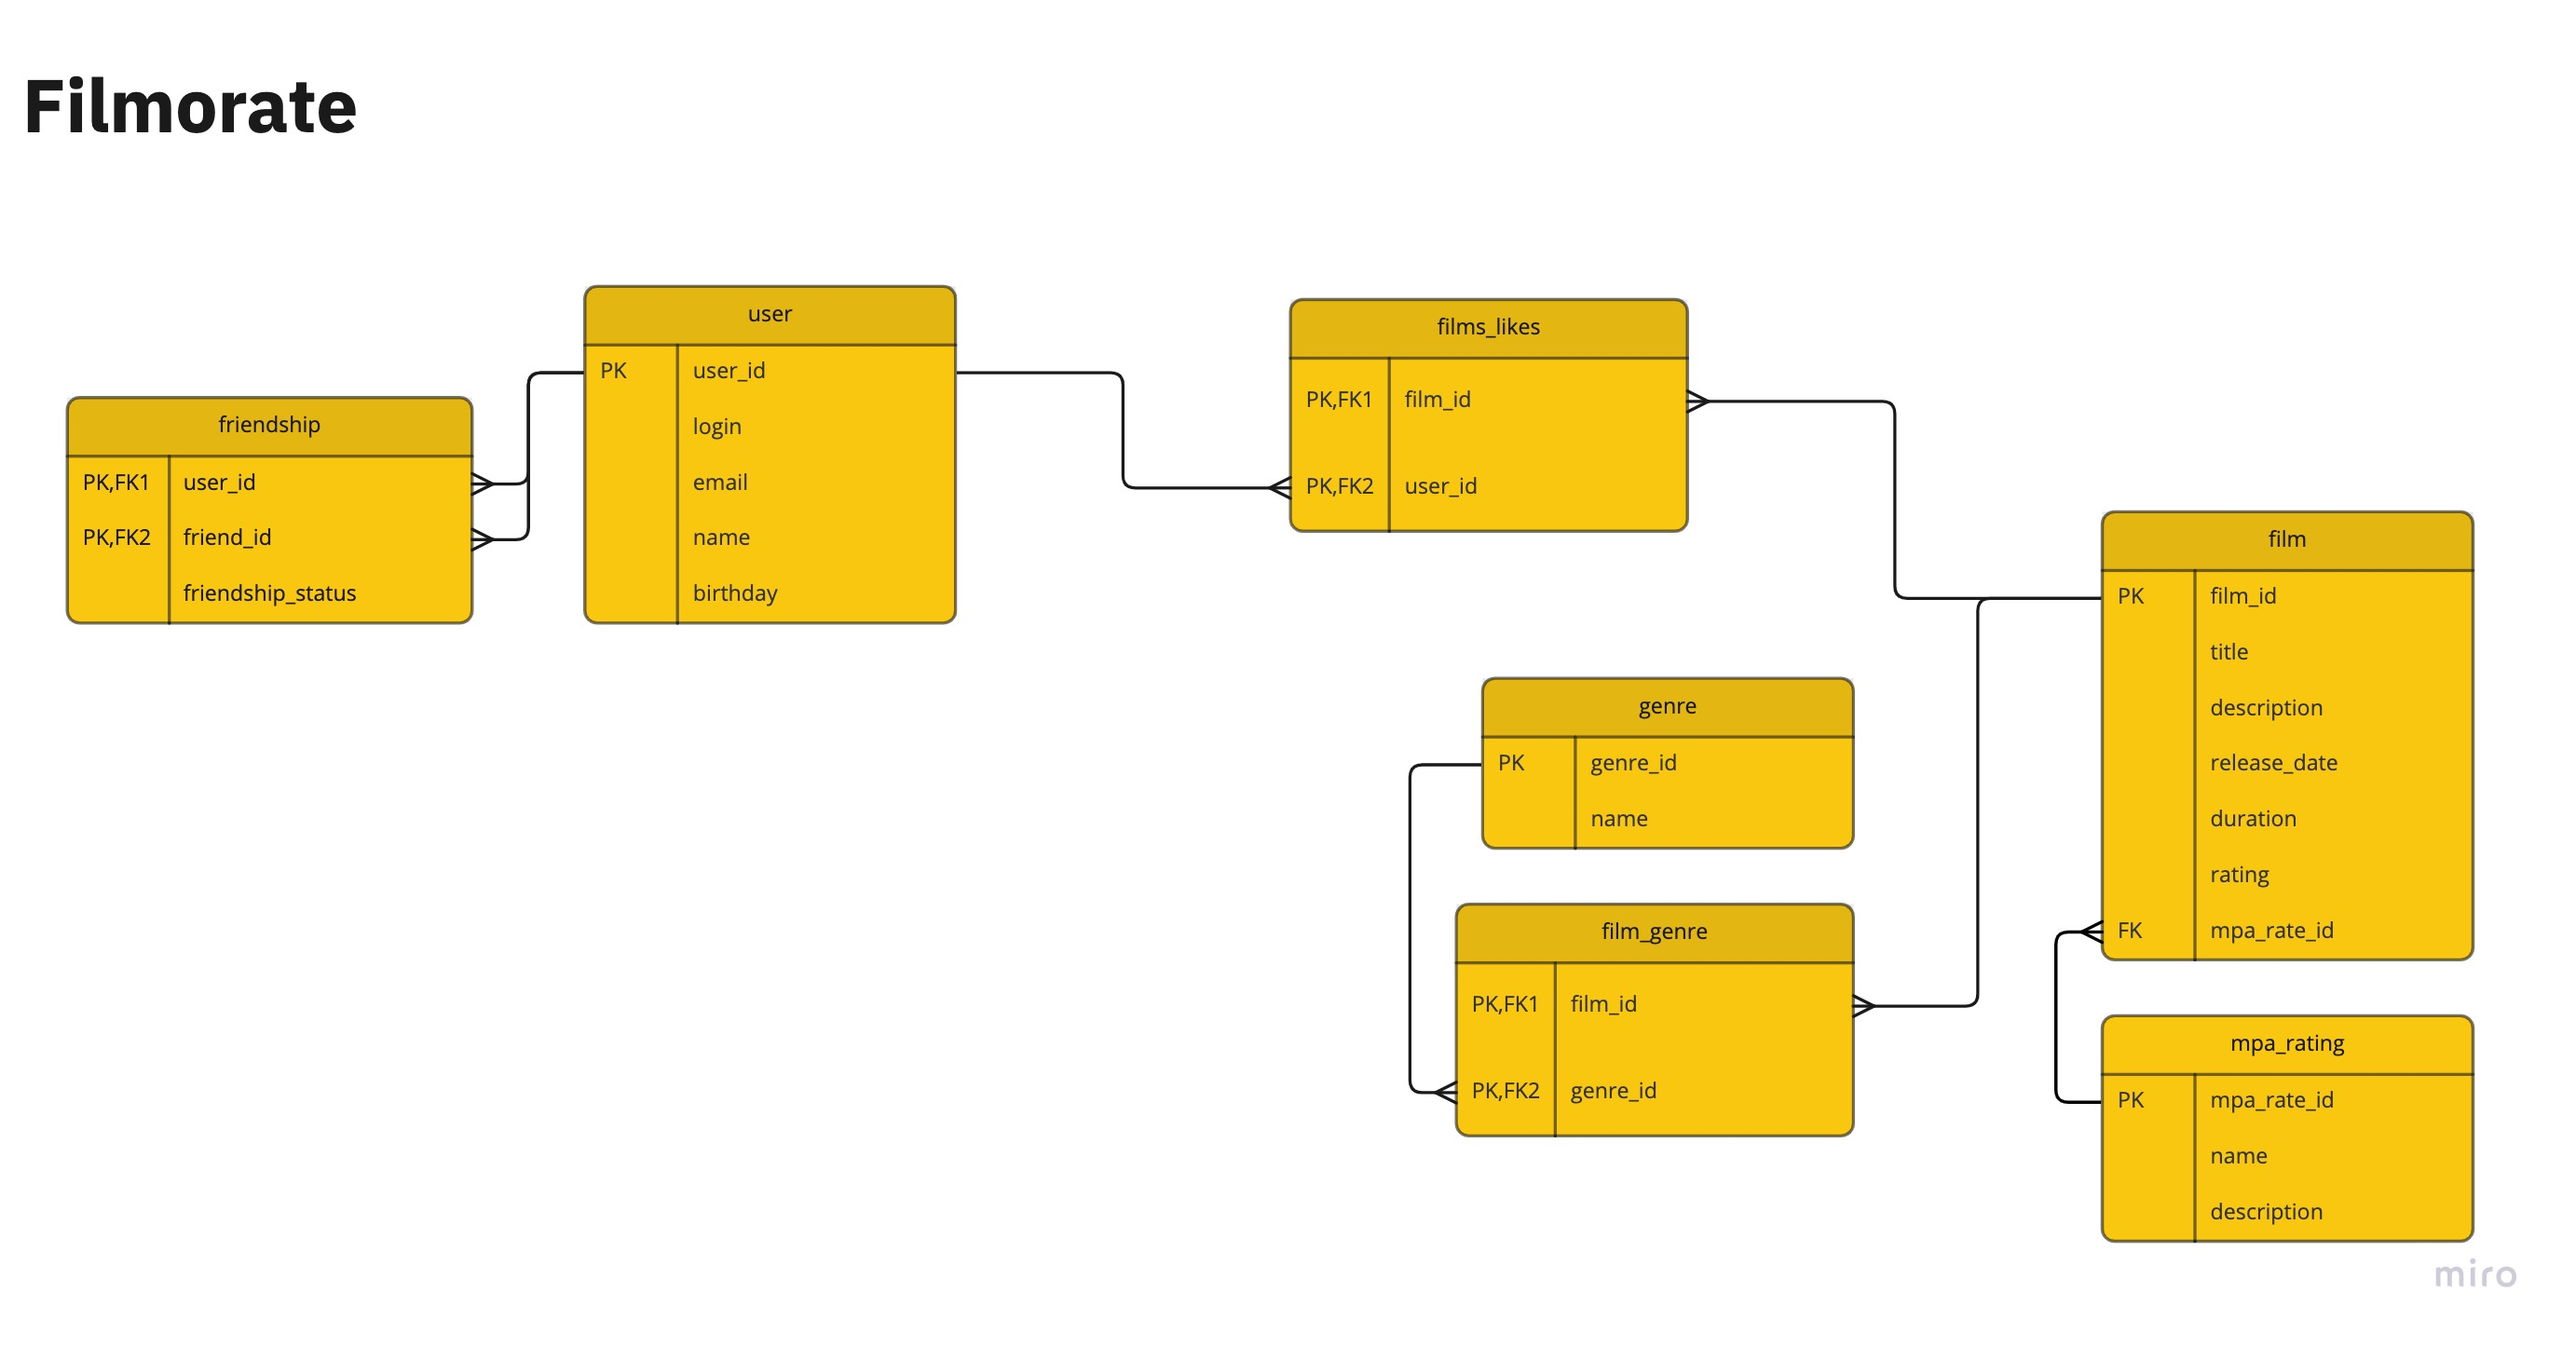
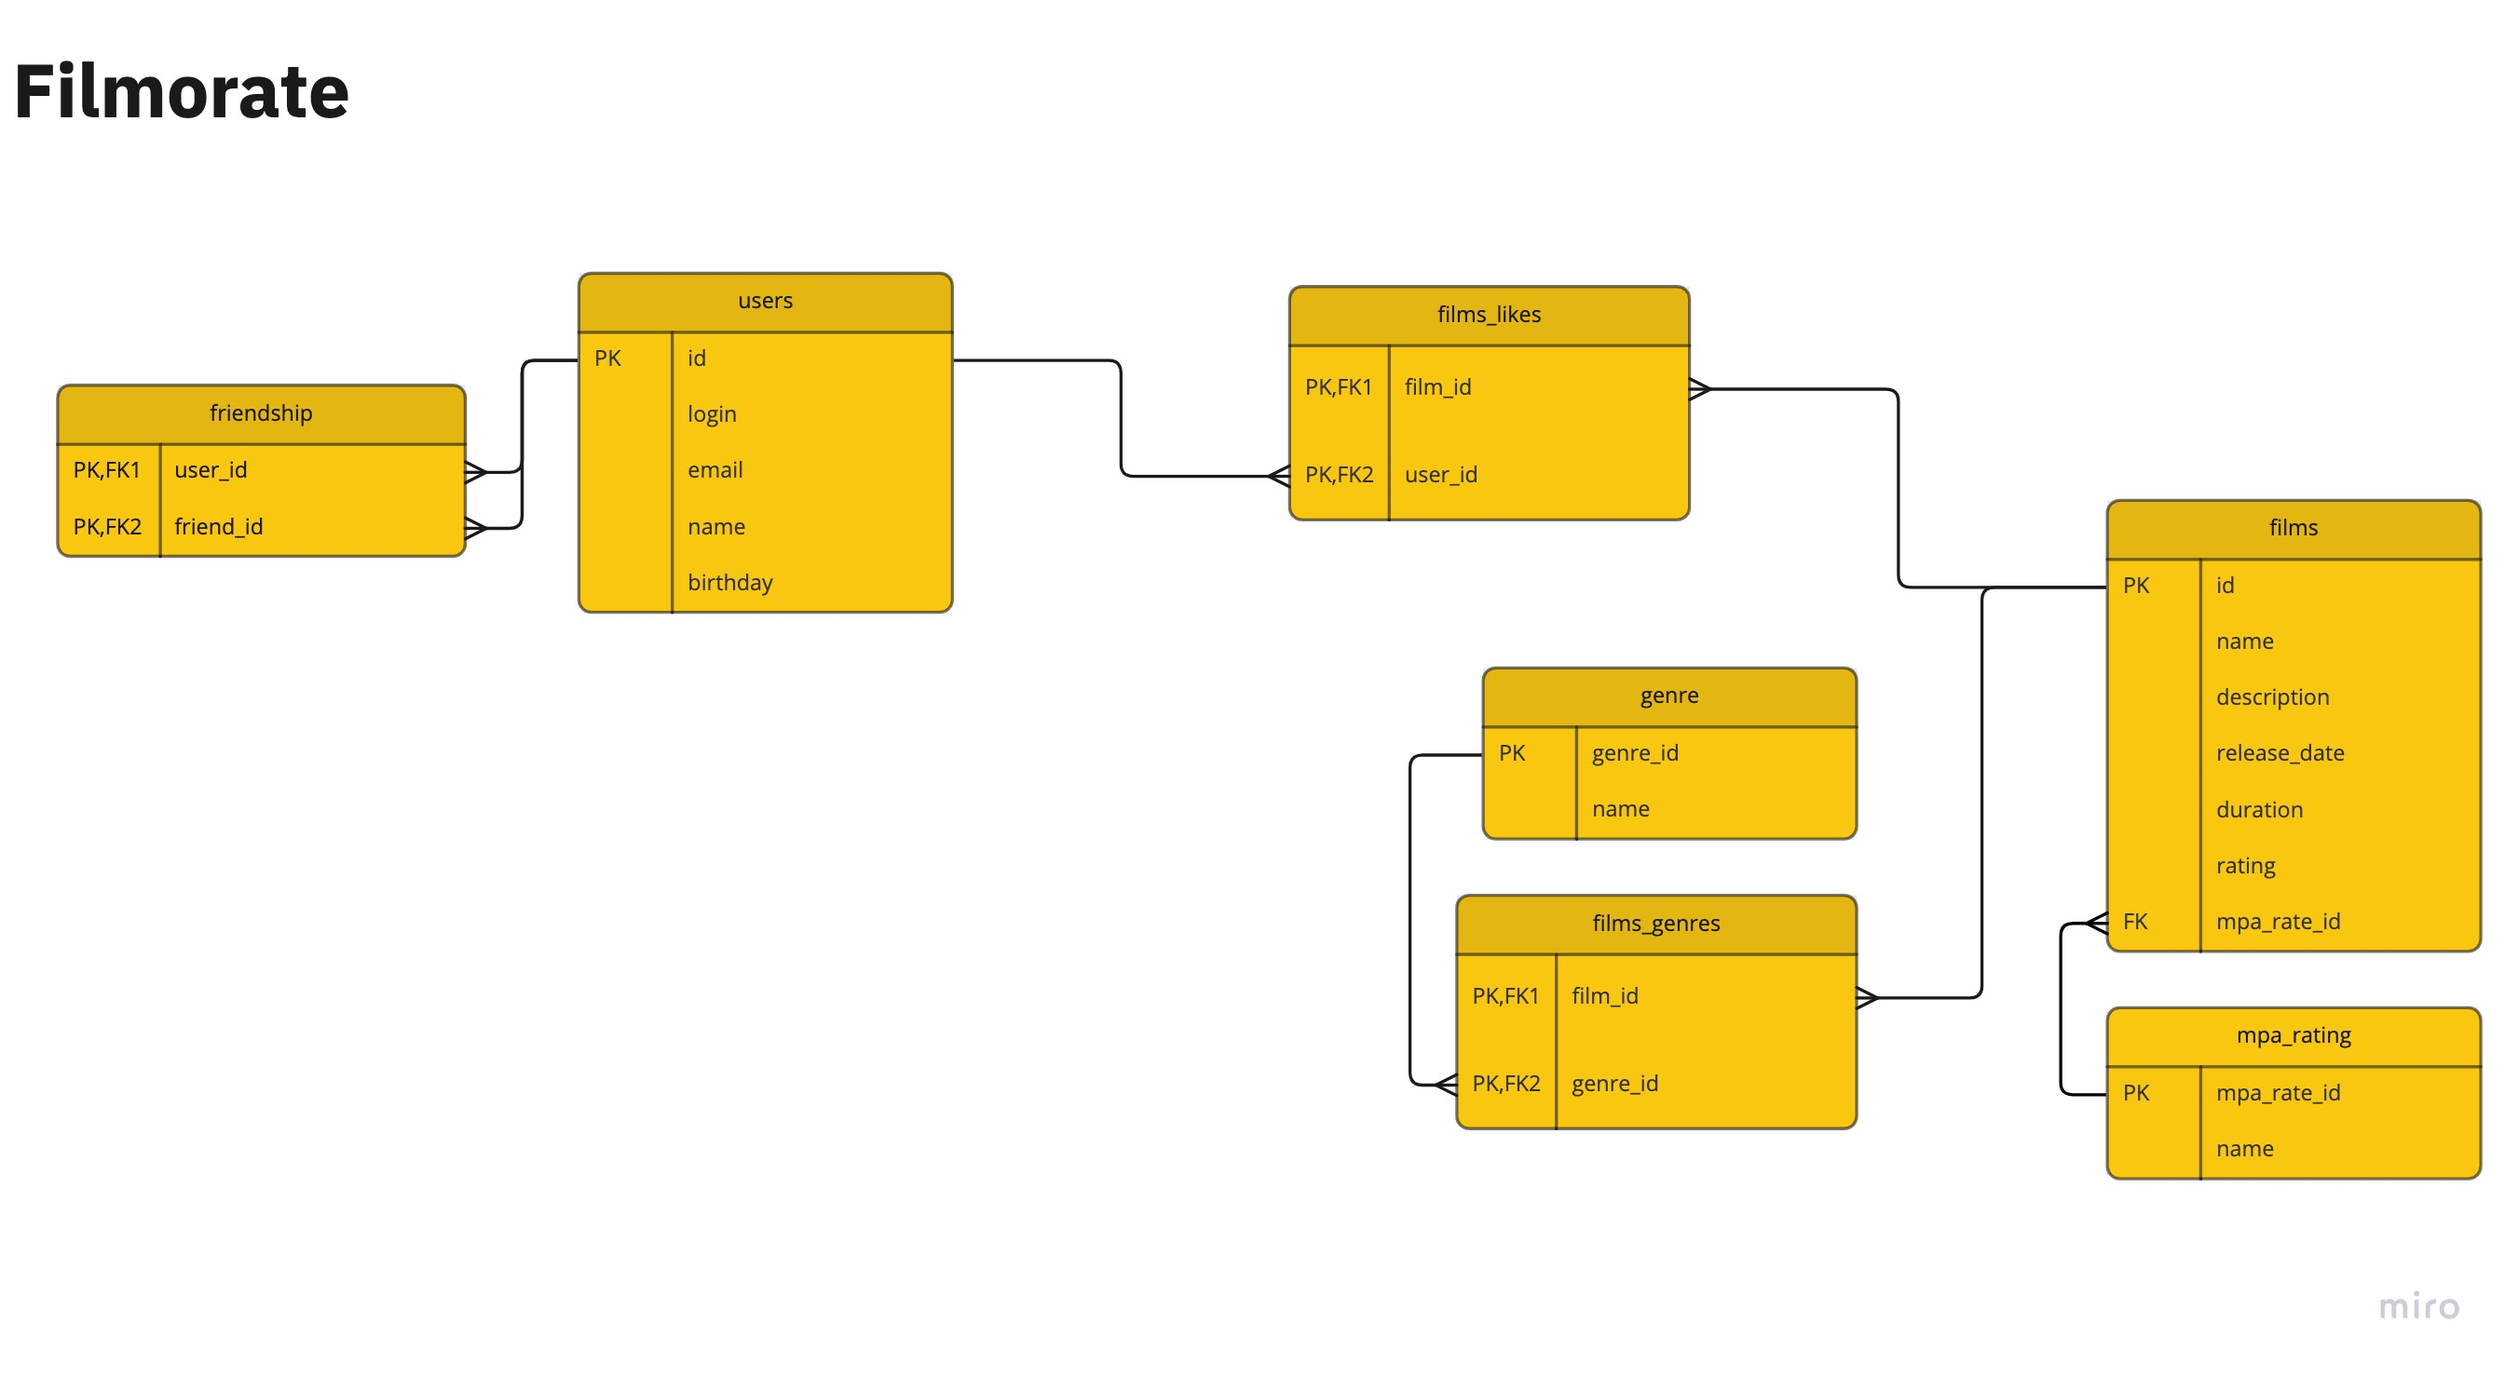
style: edited er-diagram of filmorate-data-base

diff --git a/README.md b/README.md
@@ -6,16 +6,16 @@
 
 ### Several SQL requests:
 #### *shows film's title whose MPA Rating equal to 'PG-13'*
-SELECT f.title \
-FROM film f \
+SELECT f.name \
+FROM films f \
 INNER JOIN mpa_rating mr on f.mpa_rate_id=mr.mpa_rate_id
 WHERE mr.name='PG-13'  
 #### *shows users whose birthday is equal or greater than 01-JAN-2020:*
-SELECT * FROM user \
+SELECT * FROM users \
 WHERE birthday >='20200101'
 #### *shows film's title and genre's list for each film whose genre name equal to 'Comedy':*
-SELECT f.title, g.name \
+SELECT f.name, g.name as genre_name \
 FROM film f \
-INNER JOIN film_genre fg on f.film_id=fg.film_id \
-INNER JOIN genre g on fg.genre_id=g.genre_id \
-WHERE g.name='Comedy'
+INNER JOIN films_genres fg on f.id=fg.film_id \
+INNER JOIN genres g on fg.genre_id=g.genre_id \
+WHERE g.name='Комедия'
